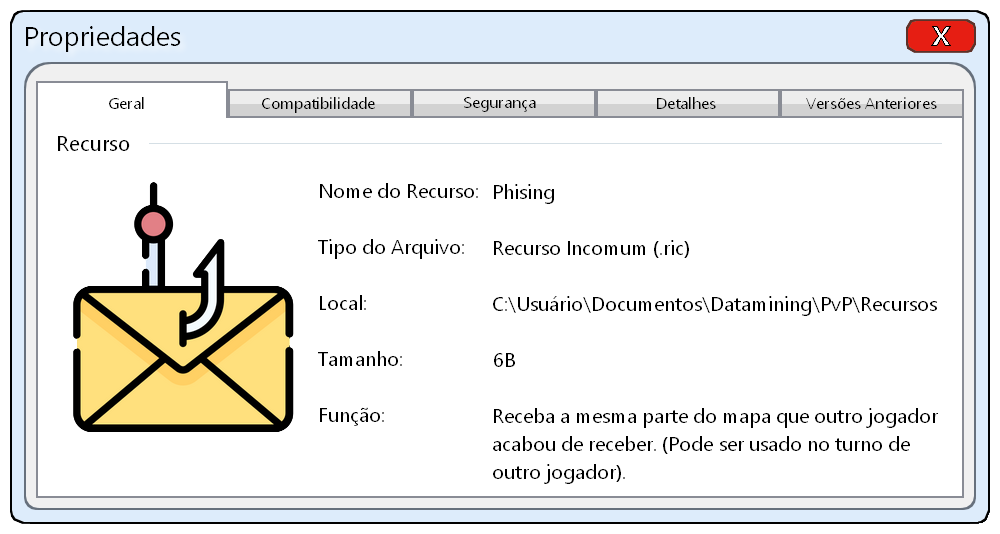
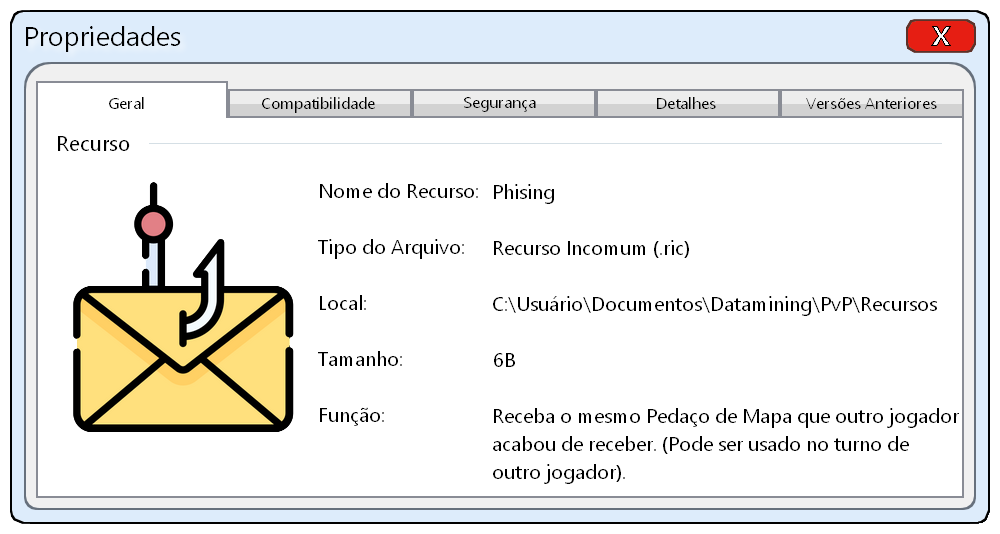
Add files via upload

Changed region(s): [[0.558, 0.7491, 0.961, 0.8689]]

diff --git a/Regras - Datamining.html b/Regras - Datamining.html
@@ -197,23 +197,23 @@
                 <div class="regra-com-imagem">
                     <div class="texto-regra">
                         <p>• <b>Objetivo:</b> Proteger o <strong>Arquivo Vital</strong>, que está na pasta de Diretório Principal, e levá-lo até sua Zona Segura. Vence o jogador que iniciar seu turno na própria pasta de Zona Segura com o Arquivo Vital no seu <strong>Banco de Dados</strong>.</p>
-						<p>• <b>Jogadores:</b> Um jogador é o <strong>Sistema Operacional (SO)</strong> sendo corrompido e os outros são <strong>Antivírus</strong> concorrentes entre si. <i><u>(Mínimo de 3 e máximo de 8 jogadores além do SO)</u></i></p>
+						<p>• <b>Jogadores:</b> Um jogador é o <strong>Sistema Operacional (SO)</strong> sendo corrompido e os outros são <strong>Antivírus</strong> concorrentes entre si. <i><u>(Mínimo de 3 e máximo de 8 jogadores Antivírus).</u></i></p>
                         <p>• <b>SO:</b> Apenas o SO vê a <strong>Tabela Mestra de Diretórios (TMD)</strong>. Ele informa as direções possíveis e a distância após a escolha do jogador sobre qual caminho seguir.</p>
-						<p>• <b>Antivírus:</b> Os jogadores Antivírus têm como ações: realizar um movimento, usar um <strong>Recurso</strong>, usar seus <strong>Patches</strong>, realizar um <strong>Combate</strong> ou rodar uma <strong>Roleta</strong>. <i><u>(Não pode repetir uma ação no mesmo turno normalmente)</u></i></p>
+						<p>• <b>Antivírus:</b> Os jogadores Antivírus têm como ações: realizar um <strong>Movimento</strong>, usar um <strong>Recurso</strong>, usar seus <strong>Patches</strong>, realizar um <strong>Combate</strong> ou rodar uma <strong>Roleta</strong>. <i><u>(Não pode repetir uma ação no mesmo turno normalmente).</u></i></p>
                     </div>
                     <img src="Regras PvP (1).png" class="imagem-regra" onclick="expandirImagem(this.src)">
                 </div>
 
                 <div class="regra-com-imagem">
                     <div class="texto-regra">
-                        <p>• <b>Setup:</b> Cada jogador escolhe sua cor e inicia o jogo com seus status <strong>1V-0A-5B</strong>. <i><u>(Versão, Atualização e Bits)</u></i></p>
+                        <p>• <b>Setup:</b> Cada jogador escolhe sua cor e inicia o jogo com seus status <strong>1V-0A-5B</strong>. <i><u>(Versão, Atualização e Bits).</u></i></p>
                     </div>
                     <img src="Regras PvP (2).png" class="imagem-regra" onclick="expandirImagem(this.src)">
                 </div>
 				
 				<div class="regra-com-imagem">
                     <div class="texto-regra">
-                        <p>• <b>Esgotamento:</b> Caso um jogador fique com ambos V e A abaixo de zero, coloque-o de volta na sua pasta de Zona Segura <i><u>(Se não tiver, vai para uma pasta de Download aleatória pelo mapa)</u></i>. Ele dá seus Recursos para os outros jogadores <i><u>(O Arquivo Vital volta para a pasta de Diretório Principal)</u></i> e recomeça com seus status iniciais.</p>
+                        <p>• <b>Esgotamento:</b> Caso um jogador fique com ambos V e A abaixo de zero, coloque-o de volta na sua pasta de Zona Segura <i><u>(Se não tiver, vai para uma pasta de Download aleatória pelo mapa)</u></i>. Ele dá seus Recursos para os outros jogadores <i><u>(O Arquivo Vital volta para a pasta do Diretório Principal)</u></i> e recomeça com seus status iniciais.</p>
 						<p>• <b>Início:</b> A ordem dos jogadores é escolhida pela roleta de Antivírus.</p>
 						<p>• <b>Exploração:</b> Com exceção das pastas de Zona Segura, do Diretório Principal, de Quarentena e de Downloads, encontrar uma pasta nunca explorada concede ao jogador uma <strong>Criptomoeda</strong>, que dá +1A ou +1B pro jogador a sua escolha.</p>
                     </div>
@@ -222,7 +222,7 @@
 				
 				<div class="regra-com-imagem">
                     <div class="texto-regra">
-                        <p>• <b>Datamine:</b> Com exceção das pastas de Zona Segura, do Diretório Principal, de Quarentena e de Downloads, existe uma Datamine escondida no mapa que, ao ser encontrada, revela para o jogador a parte do mapa em que ele está. Depois disso, ela é colocada escondida em outro lugar do mapa.</p>
+                        <p>• <b>Datamine:</b> Com exceção das pastas de Zona Segura, do Diretório Principal, de Quarentena e de Downloads, existe uma Datamine escondida no mapa que, ao ser encontrada, revela para o jogador um Pedaço do Mapa em que ele está. Depois disso, ela é colocada escondida em outro lugar do mapa.</p>
                     </div>
                     <img src="Regras PvP (4).png" class="imagem-regra" onclick="expandirImagem(this.src)">
                 </div>
@@ -239,7 +239,7 @@
                     <div class="texto-regra">
 						<p>• <b>Patch:</b> O jogador do turno sempre usa seus Patches antes dos demais, durante suas ações. Máximo de 3 Patches por jogador <i><u>(Não pode ser usado para remover um elemento da roleta que já tenha sido duplicado)</u></i>.</p>
 							<p>- <strong>1 Patch:</strong> Duplicar ou remover a chance de algum elemento numa roleta própria ou de outro jogador; Bloquear ou desbloquear um caminho adjacente a si.</p>
-							<p>- <strong>2 Patches:</strong> Ganhar um movimento adicional neste turno; Remover 1 Bug próprio; Lutar contra outro jogador a sua escolha <i><u>(Para lutas, ele pode usar 1 Patch próprio e 1 Bug do outro jogador)</u></i>.</p>
+							<p>- <strong>2 Patches:</strong> Ganhar um movimento adicional neste turno; Remover 1 Bug próprio; Entrar em Combate contra outro jogador a sua escolha <i><u>(Para Combates, ele pode usar 1 Patch próprio e 1 Bug do outro jogador)</u></i>.</p>
 							<p>- <strong>3 Patches:</strong> Fazer aparecer um Recurso a sua escolha, que já tenha sido usado por algum jogador durante esta partida, na pasta de Download; Ganhar +1V.</p>
 						<div class="separador"></div>
                     </div>
@@ -250,7 +250,7 @@
                     <div class="texto-regra">
 						<p>• <b>Bug:</b> Outros jogadores podem usar os Bugs do jogador a qualquer momento do turno deste. Máximo de 3 Bugs por jogador.</p>
 							<p>- <strong>1 Bug:</strong> Duplicar ou remover a chance de algum elemento numa roleta do jogador; Bloquear ou desbloquear um caminho adjacente do jogador do turno.</p>
-							<p>- <strong>2 Bugs:</strong> Impedir o jogador de fazer um movimento; Fazer o jogador perder 1 Patch; Forçar o jogador a entrar em uma luta <i><u>(Para lutas, o jogador pode usar 1 Patch próprio e 1 Bug do jogador do turno)</u></i>.</p>
+							<p>- <strong>2 Bugs:</strong> Impedir o jogador de fazer um movimento; Fazer o jogador perder 1 Patch; Forçar o jogador a entrar em um Combate contra o jogador que está usando seus Bugs <i><u>(Para Combates, o jogador pode usar 1 Patch próprio e 1 Bug do jogador do turno)</u></i>.</p>
 							<p>- <strong>3 Bugs:</strong> Remover um Recurso do Banco de Dados do jogador que não seja o Arquivo Vital; Receber -1V.</p>
 						<div class="separador"></div>
                     </div>
@@ -268,7 +268,7 @@
                 <div class="texto-regra">
                     <p>• <b>Diretório Principal:</b> É disfarçada de uma Pasta Vazia e é tratada como tal até o jogador encontrar todas as Chaves de Acesso e estiver com o V necessário ou acima para acessá-la.</p>
 					<p>• <b>Arquivo Vital:</b> Enquanto estiver fora do Diretório Principal, qualquer jogador pode ter o Arquivo Vital em seu Banco de Dados, independentemente de ter todas as Chaves de Acesso ou de estar no V necessário.</p>
-					<p>• <b>Empate:</b> No caso de empate em alguma luta ou indecisão do resultado de alguma roleta ou escolha, quem desempata são os jogadores externos à ação. Caso haja mais de um jogador externo, esta escolha deverá ser feita de forma unânime. Caso os jogadores externos não entrem num consenso sobre o que fazer por muito tempo, o SO pode, a qualquer momento, interromper a decisão e rodar a roleta de Quarentena para todos os jogadores <i><u>(internos ou externos à ação)</u></i>.</p>
+					<p>• <b>Empate:</b> No caso de empate em algum Combate ou indecisão do resultado de alguma Roleta ou escolha, quem desempata são os jogadores externos à ação. Caso haja mais de um jogador externo, esta escolha deverá ser feita de forma unânime. Caso os jogadores externos não entrem num consenso sobre o que fazer por muito tempo, o SO pode, a qualquer momento, interromper a decisão e rodar a roleta de Quarentena para todos os jogadores <i><u>(sejam participantes ou externos à ação)</u></i>.</p>
                 </div>
             </div>
 
@@ -282,7 +282,7 @@
 						<li>O mapa é completo, não tendo espaços vazios entre as pastas no mapa.</li>
 						<li>Sem caminhos bloqueados no início do jogo.</li>
 						<li>O SO informará a distância que deslocará, após o jogador escolher um caminho, e quais caminhos poderão ser seguidos da pasta que o jogador está.</li>
-						<li>Zonas Seguras estão sempre nos mesmos locais do mapa e cada jogador saberá onde ele mesmo inicia o jogo, mas não sabe onde iniciam os outros jogadores.</li>
+						<li>No início do jogo, os jogadores são informados sobre onde estão todas as pastas de Zonas Seguras do mapa. Cada jogador recebe secretamente as coordenadas de onde ele mesmo inicia o jogo, mas não sabe onde se iniciam os outros jogadores.</li>
 						<li>Ao invés de escolher entre receber +A ou +B, seja por vitórias ou encontrar criptomoedas, os jogadores recebem ambos.</li>
 						<li>Não há limite de uso de Recursos por turno.</li>
 						<li>Sem pasta de Quarentena pelo mapa.</li>
@@ -299,10 +299,10 @@
 						<li>A pasta de Diretório Principal só pode ser acessada por jogadores no 3V.</li>
 						<li>Sem caminhos bloqueados no início do jogo.</li>
 						<li>O SO informará a distância que deslocará, após o jogador escolher um caminho, e quais caminhos poderão ser seguidos da pasta que o jogador está.</li>
-						<li>Zonas Seguras estão sempre nos mesmos locais do mapa e cada jogador saberá onde ele mesmo inicia o jogo, mas não sabe onde iniciam os outros jogadores.</li>
+						<li>No início do jogo, os jogadores são informados sobre onde estão todas as pastas de Zonas Seguras do mapa. Cada jogador recebe secretamente as coordenadas de onde ele mesmo inicia o jogo, mas não sabe onde se iniciam os outros jogadores.</li>
 						<li>Ao invés de escolher entre receber +A ou +B, seja por vitórias ou encontrar criptomoedas, os jogadores recebem ambos.</li>
 						<li>Limite de uso de 2 Recursos por jogador a cada turno.</li>
-						<li>Sem pasta de Quarentena pelo mapa.</li>
+						<li>Há no mínimo 0 e no máximo 1 pasta de Quarentena pelo mapa.</li>
 						<li>Recursos à venda na pasta de Downloads custam -1B que seus preços normais <i><u>(Mínimo de 1B)</u></i>.</li>
 					</div>
 					<img src="Regras PvP (10).png" class="imagem-regra" onclick="expandirImagem(this.src)">
@@ -316,9 +316,9 @@
 						<li>A pasta de Diretório Principal só pode ser acessada por jogadores no 5V.</li>
 						<li>Alguns caminhos podem começar o jogo já bloqueados.</li>
 						<li>O SO informará a distância que deslocará, após o jogador escolher um caminho, e quais caminhos poderão ser seguidos da pasta que o jogador está.</li>
-						<li>Zonas Seguras estão sempre nos mesmos locais do mapa e cada jogador saberá onde ele mesmo inicia o jogo, mas não sabe onde iniciam os outros jogadores.</li>
+						<li>No início do jogo, os jogadores são informados sobre onde estão todas as pastas de Zonas Seguras do mapa. Cada jogador recebe secretamente as coordenadas de onde ele mesmo inicia o jogo, mas não sabe onde se iniciam os outros jogadores.</li>
 						<li>Limite de uso de 1 Recurso por jogador a cada turno.</li>
-						<li>Há 1 pasta de Quarentena pelo mapa.</li>
+						<li>Há no mínimo 1 e no máximo 3 pastas de Quarentena pelo mapa.</li>
 						<li>Recursos à venda na pasta de Downloads custam os seus preços normais.</li>
 					</div>
 					<img src="Regras PvP (11).png" class="imagem-regra" onclick="expandirImagem(this.src)">
@@ -332,9 +332,9 @@
 						<li>A pasta de Diretório Principal só pode ser acessada por jogadores no 7V.</li>
 						<li>Mais caminhos podem começar o jogo já bloqueados.</li>
 						<li>O SO não informará a distância que deslocará, após o jogador escolher um caminho, nem quais caminhos poderão ser seguidos da pasta que o jogador está <i><u>(O jogador informará uma direção e o SO dirá se o jogador se moveu ou falará para o jogador escolher outra)</u></i>.</li>
-						<li>Zonas Seguras, apesar de estarem sempre nos mesmos locais do mapa, não são informadas aos seus respectivos jogadores onde iniciam o jogo.</li>
+						<li>No início do jogo, cada jogador recebe secretamente as coordenadas de onde ele mesmo inicia o jogo, mas não sabe onde se iniciam os outros jogadores. Os jogadores não são informados sobre onde estão as demais pastas de Zonas Seguras do mapa.</li>
 						<li>Limite de uso de 1 Recurso por jogador a cada turno.</li>
-						<li>Há 2 pastas de Quarentena pelo mapa e o jogador fica 1 turno preso nelas.</li>
+						<li>Há no mínimo 2 e no máximo 4 pastas de Quarentena pelo mapa e o jogador fica 1 turno preso nelas.</li>
 						<li>Recursos à venda na pasta de Downloads custam +1B que seus preços normais.</li>
 					</div>
 					<img src="Regras PvP (12).png" class="imagem-regra" onclick="expandirImagem(this.src)">
@@ -348,12 +348,12 @@
 						<li>A pasta de Diretório Principal só pode ser acessada por jogadores no 10V.</li>
 						<li>Muitos caminhos podem começar o jogo já bloqueados.</li>
 						<li>O SO não informará a distância que deslocará, após o jogador escolher um caminho, nem quais caminhos poderão ser seguidos da pasta que o jogador está <i><u>(O jogador informará uma direção e o SO dirá se o jogador se moveu ou falará para o jogador escolher outra)</u></i>.</li>
-						<li>Zonas Seguras não são informadas aos seus respectivos jogadores onde iniciam o jogo. Além disso, elas não têm localização fixa, podendo estar em qualquer lugar do mapa.</li>
+						<li>Os jogadores não são informados sobre onde estão nenhuma das pastas de Zonas Seguras do mapa, nem mesmo as suas próprias.</li>
 						<li>Caminhos diagonais não são necessariamente em 45º.</li>
 						<li>Limite de uso de 1 Recurso por jogador a cada rodada.</li>
 						<li>Todas as perdas de A ou B são duplicadas.</li>
 						<li>Apenas 3 Recursos são vendidos na pasta de Download no máximo normalmente <i><u>(3 Comuns no primeiro patamar; 2 Comuns e 1 Incomum no segundo patamar; e 1 Comum, 1 Incomum e 1 Raro no terceiro patamar)</u></i>.</li>
-						<li>Há 4 pastas de Quarentena pelo mapa e o jogador fica 2 turnos preso nelas.</li>
+						<li>Há no mínimo 4 pastas de Quarentena pelo mapa e o jogador fica 1 turno preso nelas.</li>
 						<li>Recursos à venda na pasta de Downloads custam +3B que seus preços normais.</li>
 					</div>
 					<img src="Regras PvP (13).png" class="imagem-regra" onclick="expandirImagem(this.src)">
@@ -367,9 +367,9 @@
                 <div class="regra-com-imagem">
                     <div class="texto-regra">
                         <p>• <b>Objetivo:</b> Proteger o <strong>Arquivo Vital</strong>, que está na pasta de Diretório Principal, e levá-lo até sua Zona Segura. O grupo vence se todos iniciarem a rodada na Zona Segura com o Arquivo Vital em seu <strong>Banco de Dados</strong>.</p>
-						<p>• <b>Jogadores:</b> Um jogador é o <strong>Sistema Operacional (SO)</strong> sendo corrompido e os outros são um programa de <strong>Antivírus</strong> trabalhando juntos para resgatar o SO. (Mínimo de 3 e máximo de 8 jogadores além do SO)</p>
+						<p>• <b>Jogadores:</b> Um jogador é o <strong>Sistema Operacional (SO)</strong> sendo corrompido e os outros são um programa de <strong>Antivírus</strong> trabalhando juntos para resgatar o SO <i><u>(Mínimo de 3 e máximo de 8 jogadores Antivírus)</u></i>.</p>
 						<p>• <b>SO:</b> Apenas o SO vê a <strong>Tabela Mestra de Diretórios (TMD)</strong>. Ele informa as direções possíveis e a distância após a escolha do jogador sobre qual caminho seguir.</p>
-						<p>• <b>Antivírus:</b> Os jogadores Antivírus têm como ações: realizar um movimento, usar um <strong>Recurso</strong>, usar seus <strong>Patches</strong>, realizar um <strong>Jogo Cooperativo</strong> ou rodar uma <strong>Roleta</strong>. (Não pode repetir uma ação no mesmo turno normalmente)</p>
+						<p>• <b>Antivírus:</b> Os jogadores Antivírus têm como ações: realizar um <strong>Movimento</strong>, usar um <strong>Recurso</strong>, usar seus <strong>Patches</strong>, realizar um <strong>Jogo Cooperativo</strong> ou rodar uma <strong>Roleta</strong> <i><u>(Não pode repetir uma ação no mesmo turno normalmente)</u></i>.</p>
                     </div>
                     <img src="Regras Coop (1).png" class="imagem-regra" onclick="expandirImagem(this.src)">
                 </div>
@@ -386,21 +386,21 @@
                         <p>• <b>Turnos:</b> O jogo terá 120 turnos inicialmente.</p>
 						<p>• <b>Esgotamento:</b> Caso o grupo fique com ambos V e A abaixo de zero ou o número de turnos chegue a 0, o jogo acaba.</p>
 						<p>• <b>Exploração:</b> Com exceção das pastas de Zona Segura, do Diretório Principal, de Quarentena e de Downloads, encontrar uma pasta nunca explorada concede ao jogador uma <strong>Criptomoeda</strong>, que dá +1A ou +1B para o grupo a escolha do jogador que a encontrou.</p>
-						<p>• <b>Rodadas:</b> Durante uma rodada, cada jogador do grupo pode ter seu turno em qualquer ordem, mas cada jogador deve ter um turno por rodada. Ao final de cada rodada, é rolada a roleta de Arquivo Desconhecido.</p>
+						<p>• <b>Rodadas:</b> Durante uma rodada, cada jogador do grupo pode ter seu turno em qualquer ordem, mas cada jogador deve ter um turno por rodada. Ao final de cada rodada, é rolada a Roleta de Arquivo Desconhecido.</p>
                     </div>
                     <img src="Regras Coop (3).png" class="imagem-regra" onclick="expandirImagem(this.src)">
                 </div>
 				
 				<div class="regra-com-imagem">
                     <div class="texto-regra">
-                        <p>• <b>Datamine:</b> Com exceção das pastas de Zona Segura, do Diretório Principal, de Quarentena e de Downloads, existe uma Datamine escondida no mapa que, ao ser encontrada, revela para o grupo a parte do mapa em que o jogador que a encontrou está. Depois disso, ela é colocada escondida em outro lugar do mapa.</p>
+                        <p>• <b>Datamine:</b> Com exceção das pastas de Zona Segura, do Diretório Principal, de Quarentena e de Downloads, existe uma Datamine escondida no mapa que, ao ser encontrada, revela para o grupo o Pedaço do Mapa em que o jogador que a encontrou está. Depois disso, ela é colocada escondida em outro lugar do mapa.</p>
                     </div>
                     <img src="Regras Coop (4).png" class="imagem-regra" onclick="expandirImagem(this.src)">
                 </div>
 				
 				<div class="regra-com-imagem">
                     <div class="texto-regra">
-                        <p>• <b>Progressão:</b> A cada 10A, o jogador recebe +1V e um Patch e fica com 0A. Se seu A cair abaixo de 0, recebe -1V, um Bug, volta a 9A e perde 1 da contagem total de turnos.</p>
+                        <p>• <b>Progressão:</b> A cada 10A, o jogador recebe +1V e um Patch e fica com 0A. Se seu A cair abaixo de 0, recebe -1V, um Bug, volta a 9A e perde 1 da contagem total de turnos para cada jogador Antivírus.</p>
 						<div class="separador"></div>
                     </div>
                     <img src="Regras Coop (5).png" class="imagem-regra" onclick="expandirImagem(this.src)">
@@ -409,9 +409,9 @@
 				<div class="regra-com-imagem">
                     <div class="texto-regra">
                         <p>• <b>Patch:</b> Máximo de 3 Patches para o grupo <i><u>(Não pode ser usado para remover um elemento da roleta que já tenha sido duplicado)</u></i>.</p>
-							<p>- <strong>1 Patch:</strong> Duplicar ou remover a chance de algum elemento numa roleta; Bloquear ou desbloquear um caminho adjacente.</p>
-							<p>- <strong>2 Patches:</strong> Ganhar um movimento adicional neste turno; Remover 1 Bug; Ganhar 3 turnos.</p>
-							<p>- <strong>3 Patches:</strong> Fazer aparecer um Recurso a sua escolha, que já tenha sido usado por algum jogador durante esta partida, na pasta de Download; Ganhar +1V.</p>
+							<p>- <strong>1 Patch:</strong> Duplicar ou remover a chance de algum elemento numa roleta; Bloquear ou desbloquear um caminho adjacente; Ganhar 1 turno.</p>
+							<p>- <strong>2 Patches:</strong> Até 3 jogadores ganham um movimento adicional cada nesta rodada; Remover 1 Bug; Ganhar 3 turnos.</p>
+							<p>- <strong>3 Patches:</strong> Fazer aparecer um Recurso a sua escolha, que já tenha sido usado por algum jogador durante esta partida, na pasta de Download; Ganhar +1V; Ganhar 5 turnos.</p>
 						<div class="separador"></div>
                     </div>
                     <img src="Regras Coop (6).png" class="imagem-regra" onclick="expandirImagem(this.src)">
@@ -431,14 +431,14 @@
 				<div class="regra-com-imagem">
                     <div class="texto-regra">
                         <p>• <b>Recursos:</b> O Banco de Dados do grupo leva até 6 Recursos diferentes. Limite de 1 uso de Recurso por turno.</p>
-						<p>• <b>Jogo Cooperativo:</b> Quando dois ou mais jogadores terminam a rodada na mesma pasta, é iniciado um jogo Cooperativo apenas entre eles. Caso vençam, recebem +3A ou +3B, a escolha do grupo, e uma Datamine Portátil. Caso percam, recebem um Bug e -2B ou -2A, escolhido pelo SO. Estes mesmos jogadores não podem ter outro jogo Cooperativo exclusivamente entre si até que já tenha acontecido outro jogo entre qualquer outra combinação de jogadores ou com o grupo inteiro.</p>
+						<p>• <b>Jogo Cooperativo:</b> Quando dois ou mais jogadores terminam a rodada na mesma pasta, é iniciado um jogo Cooperativo apenas entre eles. Caso vençam, recebem +3A ou +3B, a escolha do grupo, e uma Datamine Portátil. Caso percam, recebem -2B ou -2A, escolhido pelo SO, e um Bug. Estes mesmos jogadores não podem ter outro jogo Cooperativo exclusivamente entre si até que já tenha acontecido outro jogo entre qualquer outra combinação de jogadores ou com o grupo inteiro.</p>
                     </div>
                     <img src="Regras Coop (8).png" class="imagem-regra" onclick="expandirImagem(this.src)">
                 </div>
 
                 <div class="texto-regra">
                     <p>• <b>Diretório Principal:</b> É disfarçada de uma Pasta Vazia e é tratada como tal até o grupo encontrar todas as Chaves de Acesso e estiver com o V necessário ou acima para acessá-la.</p>
-					<p>• <b>Empate:</b> No caso de demora ou indecisão do resultado de alguma roleta ou escolha, o SO pode, a qualquer momento, interromper a decisão e rodar a roleta de Quarentena para o grupo.</p>
+					<p>• <b>Empate:</b> No caso de demora ou indecisão do resultado de alguma roleta ou escolha, o SO pode decidir encerrar a decisão e rodar a roleta de Quarentena para o grupo.</p>
                 </div>
             </div>
 
@@ -453,10 +453,10 @@
 						<li>Sem caminhos bloqueados no início do jogo.</li>
 						<li>Limite de uso de 1 Recurso do grupo por turno.</li>
 						<li>O SO informará a distância que deslocará, após o jogador escolher um caminho, e quais caminhos poderão ser seguidos da pasta que o jogador está.</li>
-						<li>Zonas Seguras estão sempre nos mesmos locais do mapa e são informadas aos seus respectivos jogadores onde iniciam o jogo.</li>
+						<li>No início do jogo, o grupo é informado sobre onde estão todas as pastas de Zonas Seguras do mapa e recebe as coordenadas de onde cada jogador inicia o jogo.</li>
 						<li>Ao invés de escolher entre ganhar +A ou +B, seja por vitórias ou encontrar criptomoedas, o grupo recebe ambos.</li>
 						<li>Ao final de cada rodada, a roleta de Arquivo Desconhecido é rolada.</li>
-						<li>Há 1 pasta de Quarentena pelo mapa.</li>
+						<li>Há no mínimo 1 e no máximo 3 pastas de Quarentena pelo mapa.</li>
 						<li>Adquirir uma nova Zona Segura custa 6B.</li>
 						<li>Recursos à venda na pasta de Downloads custam -2B que seus preços normais (Mínimo de 1B).</li>
 					</div>
@@ -472,9 +472,9 @@
 						<li>Alguns caminhos podem começar o jogo já bloqueados.</li>
 						<li>Limite de uso de 1 Recurso do grupo por turno.</li>
 						<li>O SO informará a distância que deslocará, após o jogador escolher um caminho, e quais caminhos poderão ser seguidos da pasta que o jogador está.</li>
-						<li>Zonas Seguras estão sempre nos mesmos locais do mapa e são informadas aos seus respectivos jogadores onde iniciam o jogo.</li>
+						<li>No início do jogo, o grupo recebe as coordenadas de onde cada jogador inicia o jogo, porém não é informado sobre onde estão as demais pastas de Zonas Seguras do mapa.</li>
 						<li>Ao final de cada rodada, a roleta de Arquivo Desconhecido é rolada.</li>
-						<li>Há 2 pastas de Quarentena pelo mapa e o jogador fica 1 turno preso nelas.</li>
+						<li>Há no mínimo 2 e no máximo 5 pastas de Quarentena pelo mapa e o jogador fica 1 turno preso nelas.</li>
 						<li>Adquirir uma nova Zona Segura custa 8B.</li>
 						<li>Recursos à venda na pasta de Downloads custam seus preços normais.</li>
 					</div>
@@ -491,10 +491,10 @@
 						<li>Todas as perdas de A ou B são duplicadas.</li>
 						<li>Limite de uso de 1 Recurso do grupo por rodada.</li>
 						<li>O SO não informará a distância que deslocará, após o jogador escolher um caminho, nem quais caminhos poderão ser seguidos da pasta que o jogador está.</li>
-						<li>Zonas Seguras, apesar de estarem sempre nos mesmos locais do mapa, não serão informadas aos seus respectivos jogadores onde iniciam o jogo.</li>
+						<li>O grupo não é informado sobre onde estão as pastas de Zonas Seguras do mapa, nem as coordenadas de onde cada jogador inicia o jogo.</li>
 						<li>Caminhos diagonais não são necessariamente em 45º.</li>
 						<li>Ao final de cada rodada, a roleta de Quarentena é rolada.</li>
-						<li>Há 4 pastas de Quarentena pelo mapa e o jogador fica 2 turnos preso nelas.</li>
+						<li>Há no mínimo 4 pastas de Quarentena pelo mapa e o jogador fica 1 turno preso nelas.</li>
 						<li>Adquirir uma nova Zona Segura custa 12B.</li>
 						<li>Recursos à venda na pasta de Downloads custam +3B que seus preços normais.</li>
 					</div>

diff --git a/Pastas - Datamining.html b/Pastas - Datamining.html
@@ -202,7 +202,7 @@
                     <div class="conteudo-dificuldade">
                         <div class="subtitulo-dif">Zona Segura</div>
 							<div class="texto-regra">
-							<p>Onde cada jogador inicia o jogo. Seus locais no mapa são sempre os mesmos <i>(Exceto no Modo Extremo)</i>, variando apenas qual é a pasta inicial de cada jogador. São informados onde estão no mapa aos seus respectivos jogadores <i>(Exceto nos Modos Difícil e Extremo)</i>. Independente de quantos jogadores tenham no jogo, sempre há 8 pastas de Zona Segura espalhadas pelo mapa, uma para cada cor de jogador. Toda vez que um jogador passar pela sua própria Zona Segura, recebe +2B. Caso jogador entre na pasta de Zona Segura de outro jogador, deve pagar 2B ao dono da pasta. Caso um jogador encontre uma pasta de Zona Segura que não pertença a nenhum jogador, ele pode pagar 5B para trocar a sua pasta de Zona Segura por esta, recebendo também uma parte do mapa com suas pastas adjacentes, do contrário, recebe +2A. Um jogador com o Arquivo Vital não pode adquirir uma nova pasta de Zona Segura, enquanto já possuir uma. Caso um jogador esteja em sua pasta de Zona Segura e outro jogador entre nela, o dono da pasta pode escolher entre lutar contra o outro jogador ou não. Caso escolha não lutar, deve dar um Recurso seu para o outro jogador e não recebe o pagamento do outro jogador por entrar em sua Zona Segura <i>(Este efeito não imuniza o jogador dentro de sua Zona Segura de entrar em luta com outros jogadores por outros métodos)</i>.</p>
+							<p>Onde cada jogador inicia o jogo. Seus locais no mapa são sempre informados a todos os jogadores <i>(Exceto nos Modos Difícil e Extremo)</i>, variando apenas qual é a pasta inicial de cada jogador, que é informada secretamente para cada um <i>(Exceto no Modo Extremo)</i>. Independente de quantos jogadores tenham no jogo, sempre há 8 pastas de Zona Segura espalhadas pelo mapa. Toda vez que um jogador passar pela sua própria Zona Segura, recebe +2B. Caso jogador entre na pasta de Zona Segura de outro jogador, deve pagar 2B ao dono da pasta. Caso um jogador encontre uma pasta de Zona Segura que não pertença a nenhum jogador, ele pode pagar 5B para trocar a sua pasta de Zona Segura por esta, recebendo também um Pedaço do Mapa de onde esta pasta está, do contrário, recebe +2A. Um jogador com o Arquivo Vital não pode adquirir uma nova pasta de Zona Segura, enquanto já possuir uma. Caso um jogador esteja em sua pasta de Zona Segura e outro jogador entre nela, o dono da pasta pode escolher entre entrar em Combate contra o outro jogador ou não. Caso escolha não entrar em Combate, deve dar um Recurso seu para o outro jogador e também não recebe o pagamento do outro jogador por entrar em sua Zona Segura <i>(Este efeito não imuniza o jogador dentro de sua Zona Segura de entrar em Combate com outros jogadores por outros métodos)</i>.</p>
 						</div>
                     </div>
                     <img src="Pasta (1).png" class="imagem-regra" onclick="expandirImagem(this.src)">
@@ -231,7 +231,7 @@
                     <div class="conteudo-dificuldade">
                         <div class="subtitulo-dif">Downloads</div>
 							<div class="texto-regra">
-							<p>Os jogadores podem usar seus Bits para comprar Recursos. Toda vez que um jogador entrar nesta pasta, são aleatorizados entre 4 a 7 Recursos que estão à venda. Recursos melhores aparecem conforme o jogador progride pelo jogo. Os Recursos à venda e seus efeitos somente aparecem para o jogador que está comprando, porém são mostrados aos outros jogadores a imagem representativa dos Recursos comprados. Máximo de 2 Recursos podem ser comprados por turno.</p>
+							<p>Os jogadores podem usar seus Bits para comprar Recursos. A cada vez que um jogador entrar nesta pasta, são aleatorizados entre 4 a 7 Recursos que estão à venda. Recursos melhores aparecem conforme o jogador progride pelo jogo. Os Recursos à venda e seus efeitos somente aparecem para o jogador que está comprando, porém são mostrados aos outros jogadores apenas o ícone dos Recursos comprados, em seu Banco de Dados. Máximo de 2 Recursos podem ser comprados por turno numa mesma pasta de Download.</p>
 						</div>
                     </div>
                     <img src="Pasta (4).png" class="imagem-regra" onclick="expandirImagem(this.src)">
@@ -261,7 +261,7 @@
                     <div class="conteudo-dificuldade">
                         <div class="subtitulo-dif">Chave de Acesso</div>
 							<div class="texto-regra">
-							<p>O jogador recebe secretamente uma pista de onde está a pasta do Diretório Principal <i>(É tratada como uma Pasta Vazia, durante o turno do jogador que a encontrou)</i>. A cada final de rodada em que algum jogador tenha encontrado pelo menos uma pasta de Chave de Acesso, o SO informa a todos quantos jogadores possuem Chaves de Acesso e quantas cada um possui, sem informar quais jogadores as têm. Encontrando todas, permite ao jogador encontrar o Diretório Principal.</p>
+							<p>O jogador recebe secretamente uma pista de onde está a pasta do Diretório Principal <i>(É tratada como uma Pasta Vazia, durante o turno do jogador que a encontrou)</i>. A cada final de rodada em que algum jogador tenha encontrado pelo menos uma pasta de Chave de Acesso, o SO informa a todos quantos jogadores possuem Chaves de Acesso e quantas cada um possui, sem informar quais jogadores as têm. Encontrando todas, permite ao jogador encontrar a pasta do Diretório Principal.</p>
 						</div>
                     </div>
                     <img src="Pasta (7).png" class="imagem-regra" onclick="expandirImagem(this.src)">
@@ -271,7 +271,7 @@
                     <div class="conteudo-dificuldade">
                         <div class="subtitulo-dif">Diretório Principal</div>
 							<div class="texto-regra">
-							<p>É disfarçada de alguma outra Pasta Vazia até o jogador encontrar todas as Chaves de Acesso e ter V necessário para acessá-la. É onde está o Arquivo Vital.</p>
+							<p>É disfarçada de alguma outra Pasta Vazia até o jogador encontrar todas as Chaves de Acesso e ter V necessário para acessá-la. É onde inicialmente está o Arquivo Vital.</p>
 						</div>
                     </div>
                     <img src="Pasta (8).png" class="imagem-regra" onclick="expandirImagem(this.src)">
@@ -296,7 +296,7 @@
                     <div class="conteudo-dificuldade">
                         <div class="subtitulo-dif">Zona Segura</div>
 							<div class="texto-regra">
-							<p>Onde cada jogador inicia o jogo. Seus locais no mapa são sempre os mesmos, variando apenas qual é a pasta inicial de cada jogador. Todos os jogadores são informados onde estão as pastas de cada um no mapa <i>(Exceto no Modo Difícil)</i>. Independente de quantos jogadores tenham no jogo, sempre há 8 pastas de Zona Segura no mapa. Toda vez que um jogador passar por alguma Zona Segura pertencente ao grupo que não seja da sua mesma cor, o grupo recebe +2B. Caso um jogador encontre uma pasta de Zona Segura que não pertença ao grupo, ele pode pagar 8B para trocar a sua Zona Segura por esta, recebendo também uma parte do mapa com suas pastas adjacentes, do contrário, recebe +3A. Enquanto o grupo possuir o Arquivo Vital, todas as pastas de Zona Segura são dadas como perdidas e apenas uma delas é escolhida aleatoriamente para ser a única saída do grupo. Enquanto possuírem o Arquivo Vital, o grupo não pode adquirir uma nova pasta de Zona Segura e, caso esta seja perdida por algum efeito, apenas altera a Zona Segura para outra escolhida aleatoriamente.</p>
+							<p>Onde cada jogador inicia o jogo. Seus locais no mapa não são informados aos jogadores <i>(Exceto no Modo Fácil)</i>, mas as coordenadas das pastas iniciais de cada jogador são <i>(Exceto no Modo Difícil)</i>. Independente de quantos jogadores tenham no jogo, sempre há 8 pastas de Zona Segura no mapa. Toda vez que um jogador passar por alguma Zona Segura pertencente ao grupo que não seja da sua mesma cor, o grupo recebe +2B <i>(Se a pasta de Zona Segura e o jogador forem da mesma cor, o grupo não recebe nada)</i>. Caso um jogador encontre uma pasta de Zona Segura que não pertença ao grupo, ele pode pagar 8B para trocar a sua Zona Segura por esta, recebendo também um Pedaço do Mapa com suas pastas adjacentes, do contrário, recebe +3A. Enquanto o grupo possuir o Arquivo Vital, todas as pastas de Zona Segura são dadas como perdidas e apenas uma delas é escolhida aleatoriamente para ser a única saída do grupo. Enquanto possuírem o Arquivo Vital, o grupo não pode adquirir uma nova pasta de Zona Segura e, caso esta seja perdida por algum efeito, apenas altera a Zona Segura para outra escolhida aleatoriamente.</p>
 						</div>
                     </div>
                     <img src="Pasta (1).png" class="imagem-regra" onclick="expandirImagem(this.src)">
@@ -325,7 +325,7 @@
                     <div class="conteudo-dificuldade">
                         <div class="subtitulo-dif">Downloads</div>
 							<div class="texto-regra">
-							<p>O grupo pode usar seus Bits para comprar Recursos. Toda vez que um jogador entrar nesta pasta, são aleatorizados entre 4 a 7 Recursos que estão à venda. Recursos melhores aparecem conforme o grupo progride durante o jogo. Máximo de 2 Recursos podem ser comprados por turno.</p>
+							<p>O grupo pode usar seus Bits para comprar Recursos. A cada vez que um jogador entrar nesta pasta, são aleatorizados entre 4 a 7 Recursos que estão à venda. Recursos melhores aparecem conforme o grupo progride durante o jogo. Máximo de 2 Recursos podem ser comprados por turno.</p>
 						</div>
                     </div>
                     <img src="Pasta (4).png" class="imagem-regra" onclick="expandirImagem(this.src)">
@@ -335,7 +335,7 @@
                     <div class="conteudo-dificuldade">
                         <div class="subtitulo-dif">Jogo Cooperativo</div>
 							<div class="texto-regra">
-							<p>O grupo roda a roleta Cooperativa. Caso ganhem o jogo, recebem +3A ou +3B, a escolha do grupo, além de 1 Patch e 1 Datamine Portátil. Caso percam, recebem -3B, -3A ou se perdem um Recurso aleatoriamente, a escolha do SO, e 1 Bug.</p>
+							<p>O grupo roda a roleta Cooperativa. Caso ganhem o jogo, recebem +3A ou +3B, a escolha do grupo, além de 1 Patch e 1 Datamine Portátil. Caso percam, recebem -3B, -3A ou perdem um Recurso aleatoriamente, a escolha do SO, além de 1 Bug.</p>
 						</div>
                     </div>
                     <img src="Pasta (5)c.png" class="imagem-regra" onclick="expandirImagem(this.src)">
@@ -355,7 +355,7 @@
                     <div class="conteudo-dificuldade">
                         <div class="subtitulo-dif">Chave de Acesso</div>
 							<div class="texto-regra">
-							<p>O grupo recebe uma pista de onde está a pasta do Diretório Principal. Encontrando todas, permite ao grupo encontrar o Diretório Principal.</p>
+							<p>O grupo recebe uma pista de onde está a pasta do Diretório Principal. Encontrando todas, permite ao grupo encontrar a pasta do Diretório Principal.</p>
 						</div>
                     </div>
                     <img src="Pasta (7).png" class="imagem-regra" onclick="expandirImagem(this.src)">
@@ -365,7 +365,7 @@
                     <div class="conteudo-dificuldade">
                         <div class="subtitulo-dif">Diretório Principal</div>
 							<div class="texto-regra">
-							<p>É disfarçada de alguma outra pasta até o grupo encontrar todas as Chaves de Acesso e ter V necessário para acessá-la. Local onde está o Arquivo Vital.</p>
+							<p>É disfarçada de alguma outra pasta até o grupo encontrar todas as Chaves de Acesso e ter V necessário para acessá-la. É onde inicialmente está o Arquivo Vital.</p>
 						</div>
                     </div>
                     <img src="Pasta (8).png" class="imagem-regra" onclick="expandirImagem(this.src)">
